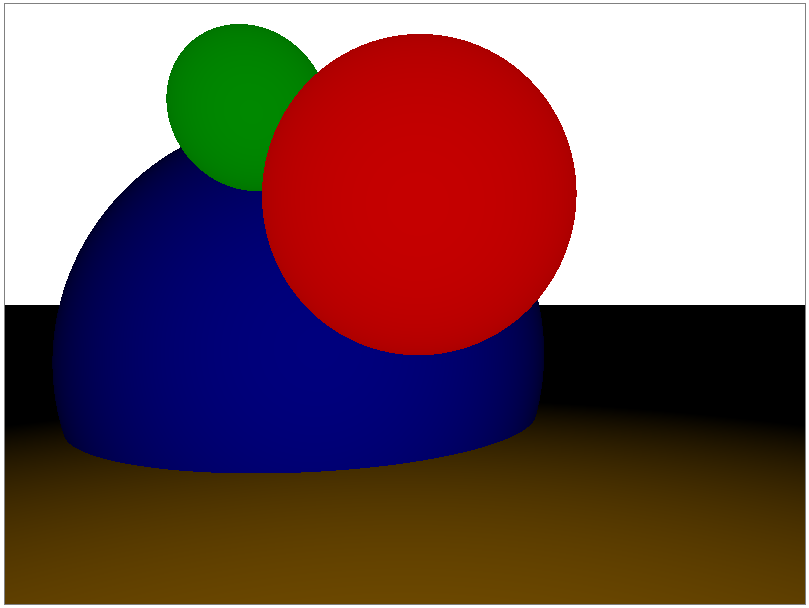
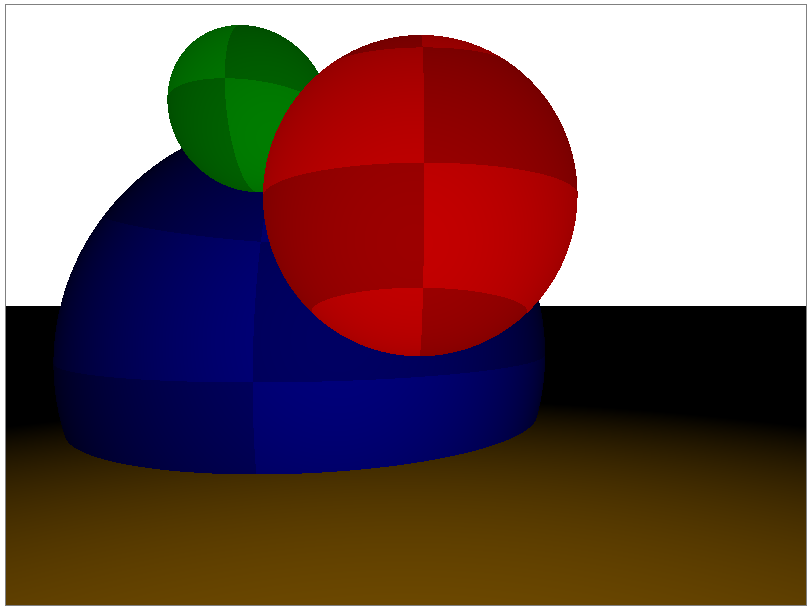
added calc of sphere surface coordinate thus to implement a basic texture

Changed region(s): [[0.0, 0.0, 1.0, 1.0], [0.0618, 0.5938, 0.3399, 0.7812]]

diff --git a/index.html b/index.html
@@ -87,8 +87,42 @@
                 var r = col[0] * shade, g = col[1]*shade, b = col[2] *shade;
                 if (r > 255) r=255; if (g > 255) g=255; if (b>255) b=255;
                 if (r<0) r=0; if (g<0) g= 0; if (b<0) b=0;
+                var a = col[3];
+                col = [];
 
-                pset(x, y, [r,g,b,col[3]]);
+                col[0] = r;
+                col[1] = g;
+                col[2] = b;
+                col[3] = a;
+
+
+                var rayIntercept = Ray.origin.add(Ray.direction);
+                rayIntercept.scale(result.dist);
+
+
+                if (result.object.getIntersectionCoordinate)
+                {
+                    var tex = result.object.getIntersectionCoordinate(rayIntercept);
+                    var scale = 32;
+                    var pattern = (((tex.u * scale) % 1) > 0.5) ^ (((tex.v * scale) % 1) > 0.5);
+                    var col2 = [];
+                    col2[0] = col[0] * 0.8;
+                    col2[1] = col[1] * 0.8;
+                    col2[2] = col[2] * 0.8;
+                    col2[3] = col[3];
+
+                    var scale2 = Math.max(0, tex.nhit.dot(dir.scale(-1)));
+                    col = colourMix(col, col2, pattern);
+
+                    col[0] = Math.floor(col[0] * scale2);
+                    col[1] = Math.floor(col[1] * scale2);
+                    col[2] = Math.floor(col[2] * scale2);
+                    col[3] = 255;
+
+                }
+
+
+                pset(x, y, col);
 
             }
 
@@ -105,6 +139,17 @@
     var ms = Date.now() - time_start;
     console.log("Render time: "+ms+" ms");
 
+    function colourMix(c1, c2, mix)
+    {
+        var n = [];
+
+        n[0] = (c1[0] * (1 - mix)) + c2[0] * mix;
+        n[1] = (c1[1] * (1 - mix)) + c2[1] * mix;
+        n[2] = (c1[2] * (1 - mix)) + c2[2] * mix;
+        n[3] = 255;
+
+        return n;
+    }
 
     function Raytrace(ray)
     {

diff --git a/Sphere.js b/Sphere.js
@@ -9,6 +9,17 @@ function Sphere(v3_pos, radius, colour)
 
     this.done = 0;
 
+    this.getIntersectionCoordinate = function(hitRay)
+    {
+        var nhit = hitRay.subtract(this.position);
+        nhit.normalise();
+
+        var u = (1 + Math.atan2(nhit.z, nhit.x) / Math.PI) * 0.5;
+        var v = Math.acos(nhit.y) / Math.PI;
+
+        return {u: u, v:v, nhit:nhit};
+    };
+
     this.intersect = function(ray)
     {
         var v = ray.origin.subtract(this.position);

diff --git a/Vector3.js b/Vector3.js
@@ -72,6 +72,14 @@ function Vector3(x,y,z) {
         return v;
     };
 
+    this.scale = function(scalar)
+    {
+        this.x *= scalar;
+        this.y *= scalar;
+        this.z *= scalar;
+        return this;
+    };
+
     this.add = function(vec)
     {
         var v = new Vector3();
